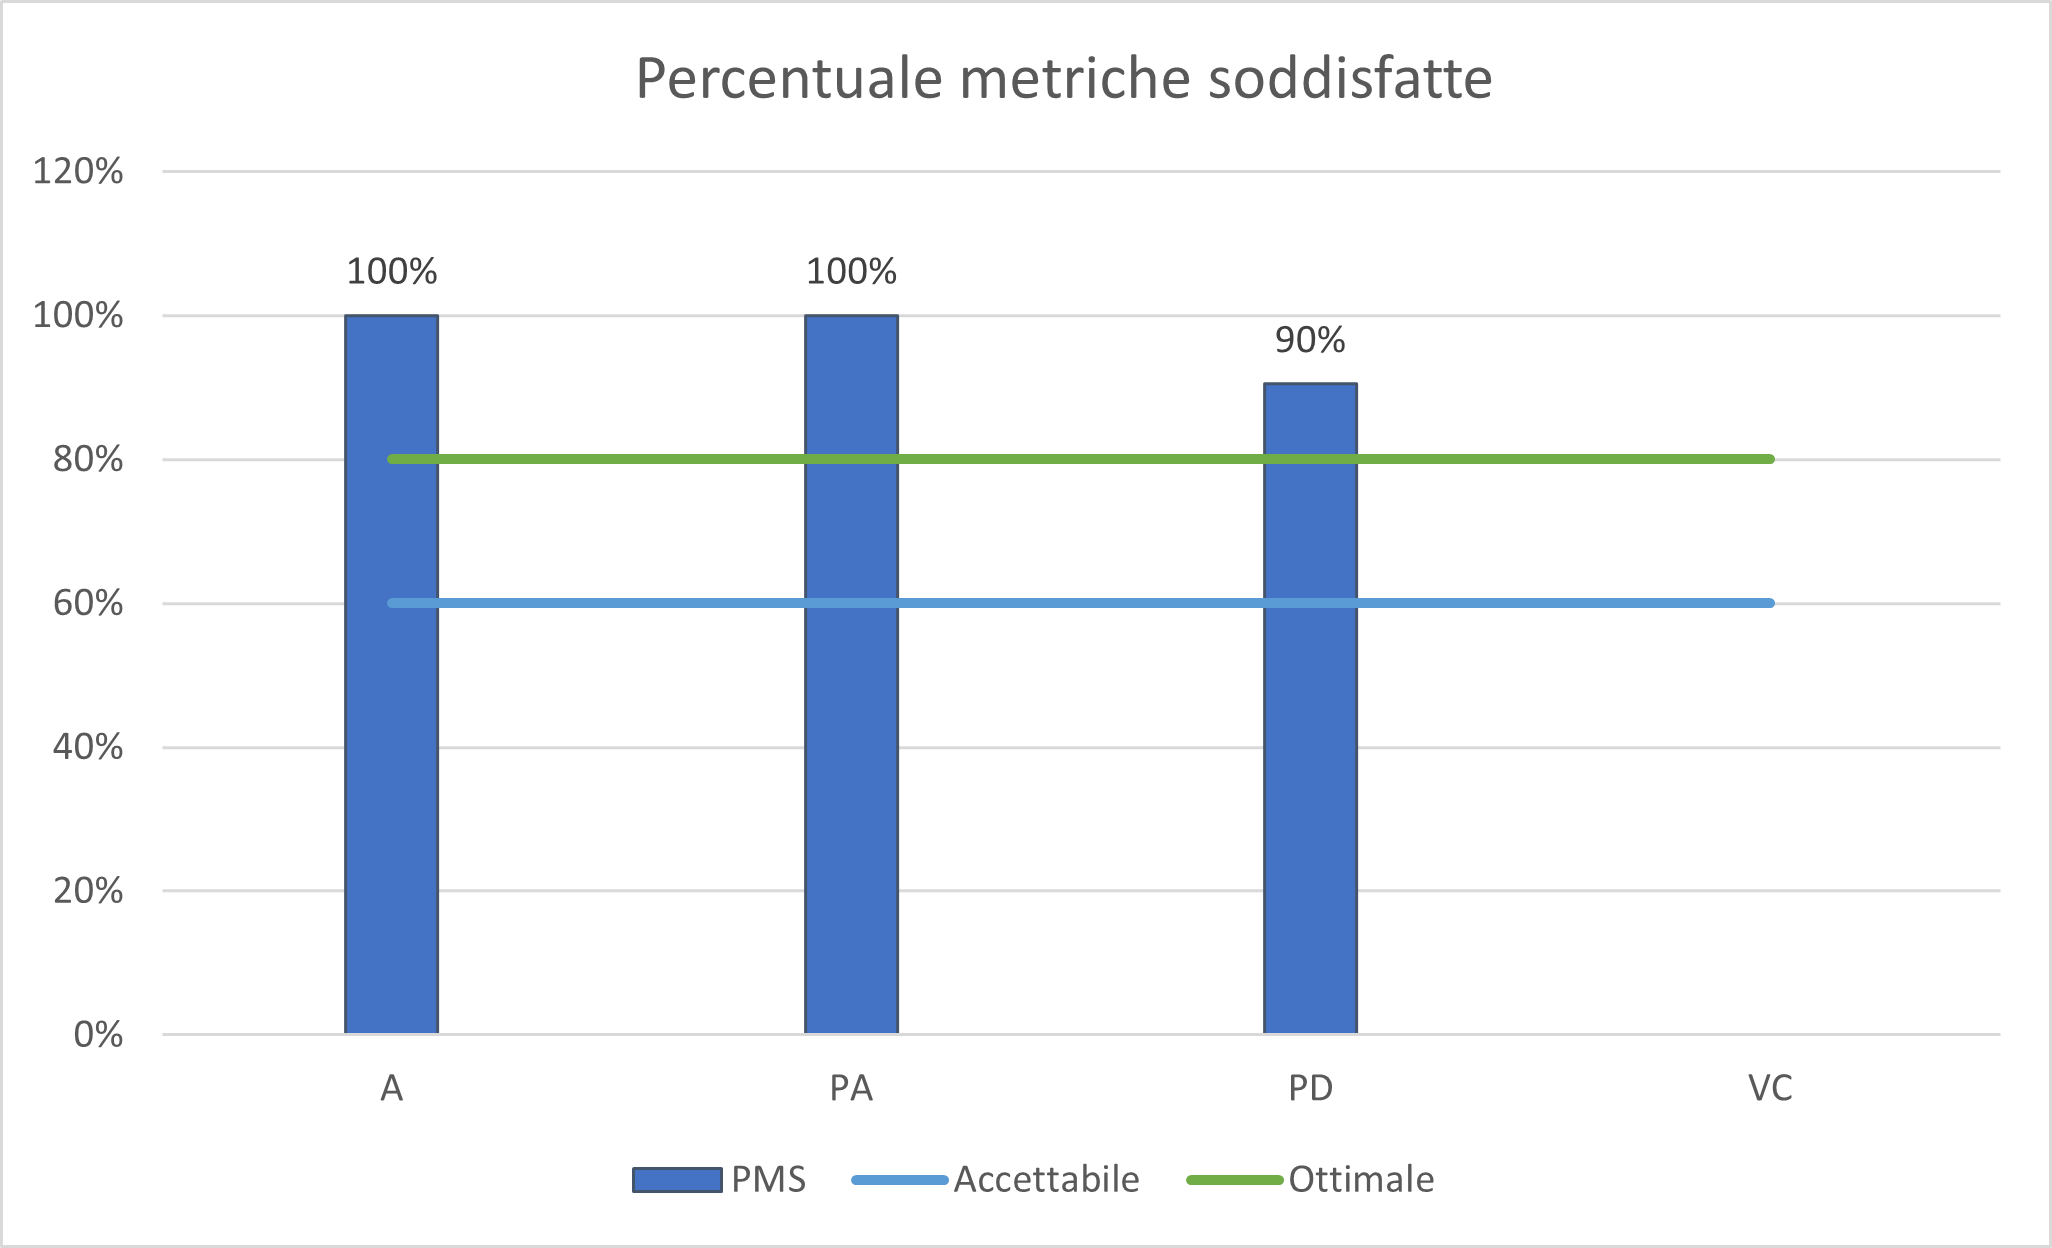
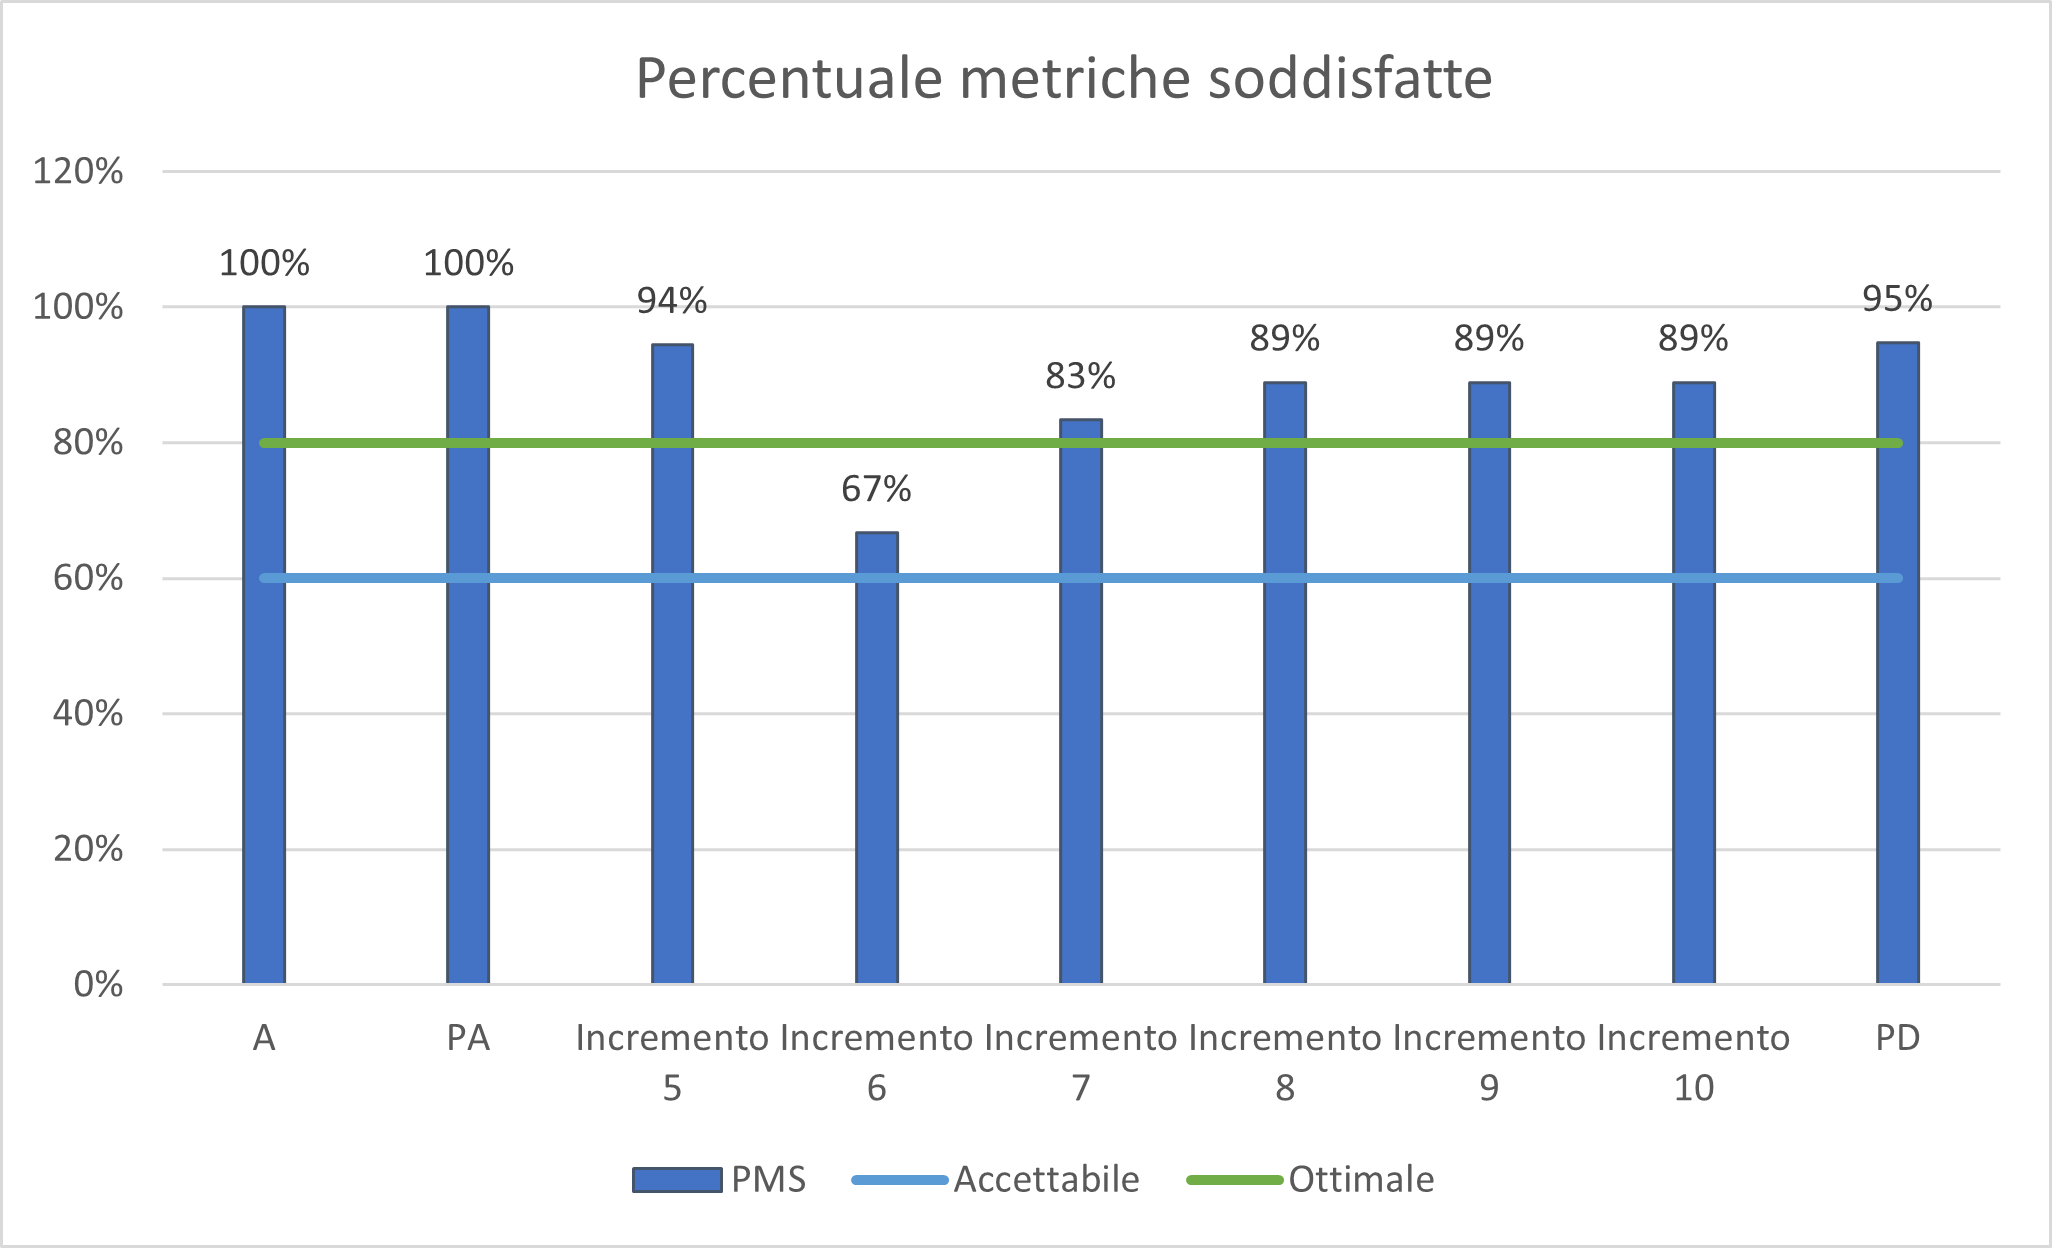
Spostata PMS, fix grafico PMS

diff --git a/DocumentazioneEsterna/PianoDiQualifica/res/ResocontoAttivitaDiVerifica/res/metriche/metriche.tex b/DocumentazioneEsterna/PianoDiQualifica/res/ResocontoAttivitaDiVerifica/res/metriche/metriche.tex
@@ -101,7 +101,7 @@ Di seguito è riportato il grafico del Budget Variance, il cui valore è definit
 
 
 \subsubsection{MPC11 - Percentuale di metriche soddisfatte}
-Di seguito è riportato il grafico della percentuale di metriche soddisfatte, il cui valore è definito accettabile e ottimale come descritto nella sezione §2.3.2.1.\\
+Di seguito è riportato il grafico della percentuale di metriche soddisfatte, il cui valore è definito accettabile e ottimale come descritto nella sezione §2.3.1.6.\\
 
 \begin{figure}[H]
 \centering

diff --git a/DocumentazioneEsterna/PianoDiQualifica/PianoDiQualifica.tex b/DocumentazioneEsterna/PianoDiQualifica/PianoDiQualifica.tex
@@ -24,9 +24,9 @@
 \newpage
 \input{res/QualitaDiProdotto/qualitaDiProdotto.tex}
 \newpage
-\input{res/tabellaRiassuntivaMetriche.tex}
-\newpage
 \input{res/SpecificheDeiTest/specificheDeiTest.tex}
+\newpage
+\input{res/tabellaRiassuntivaMetriche.tex}
 \newpage
 
 \appendix

diff --git a/DocumentazioneEsterna/PianoDiQualifica/res/QualitaDiProcesso/res/organizzativi.tex b/DocumentazioneEsterna/PianoDiQualifica/res/QualitaDiProcesso/res/organizzativi.tex
@@ -92,7 +92,7 @@
 		\end{itemize}
 \end{itemize}
 
-\subsubsection{Gestione qualità}
+
 \myparagraph{Metrica - Percentuale di metriche soddisfatte}
 \vspace{-1cm}
 \begin{itemize}
